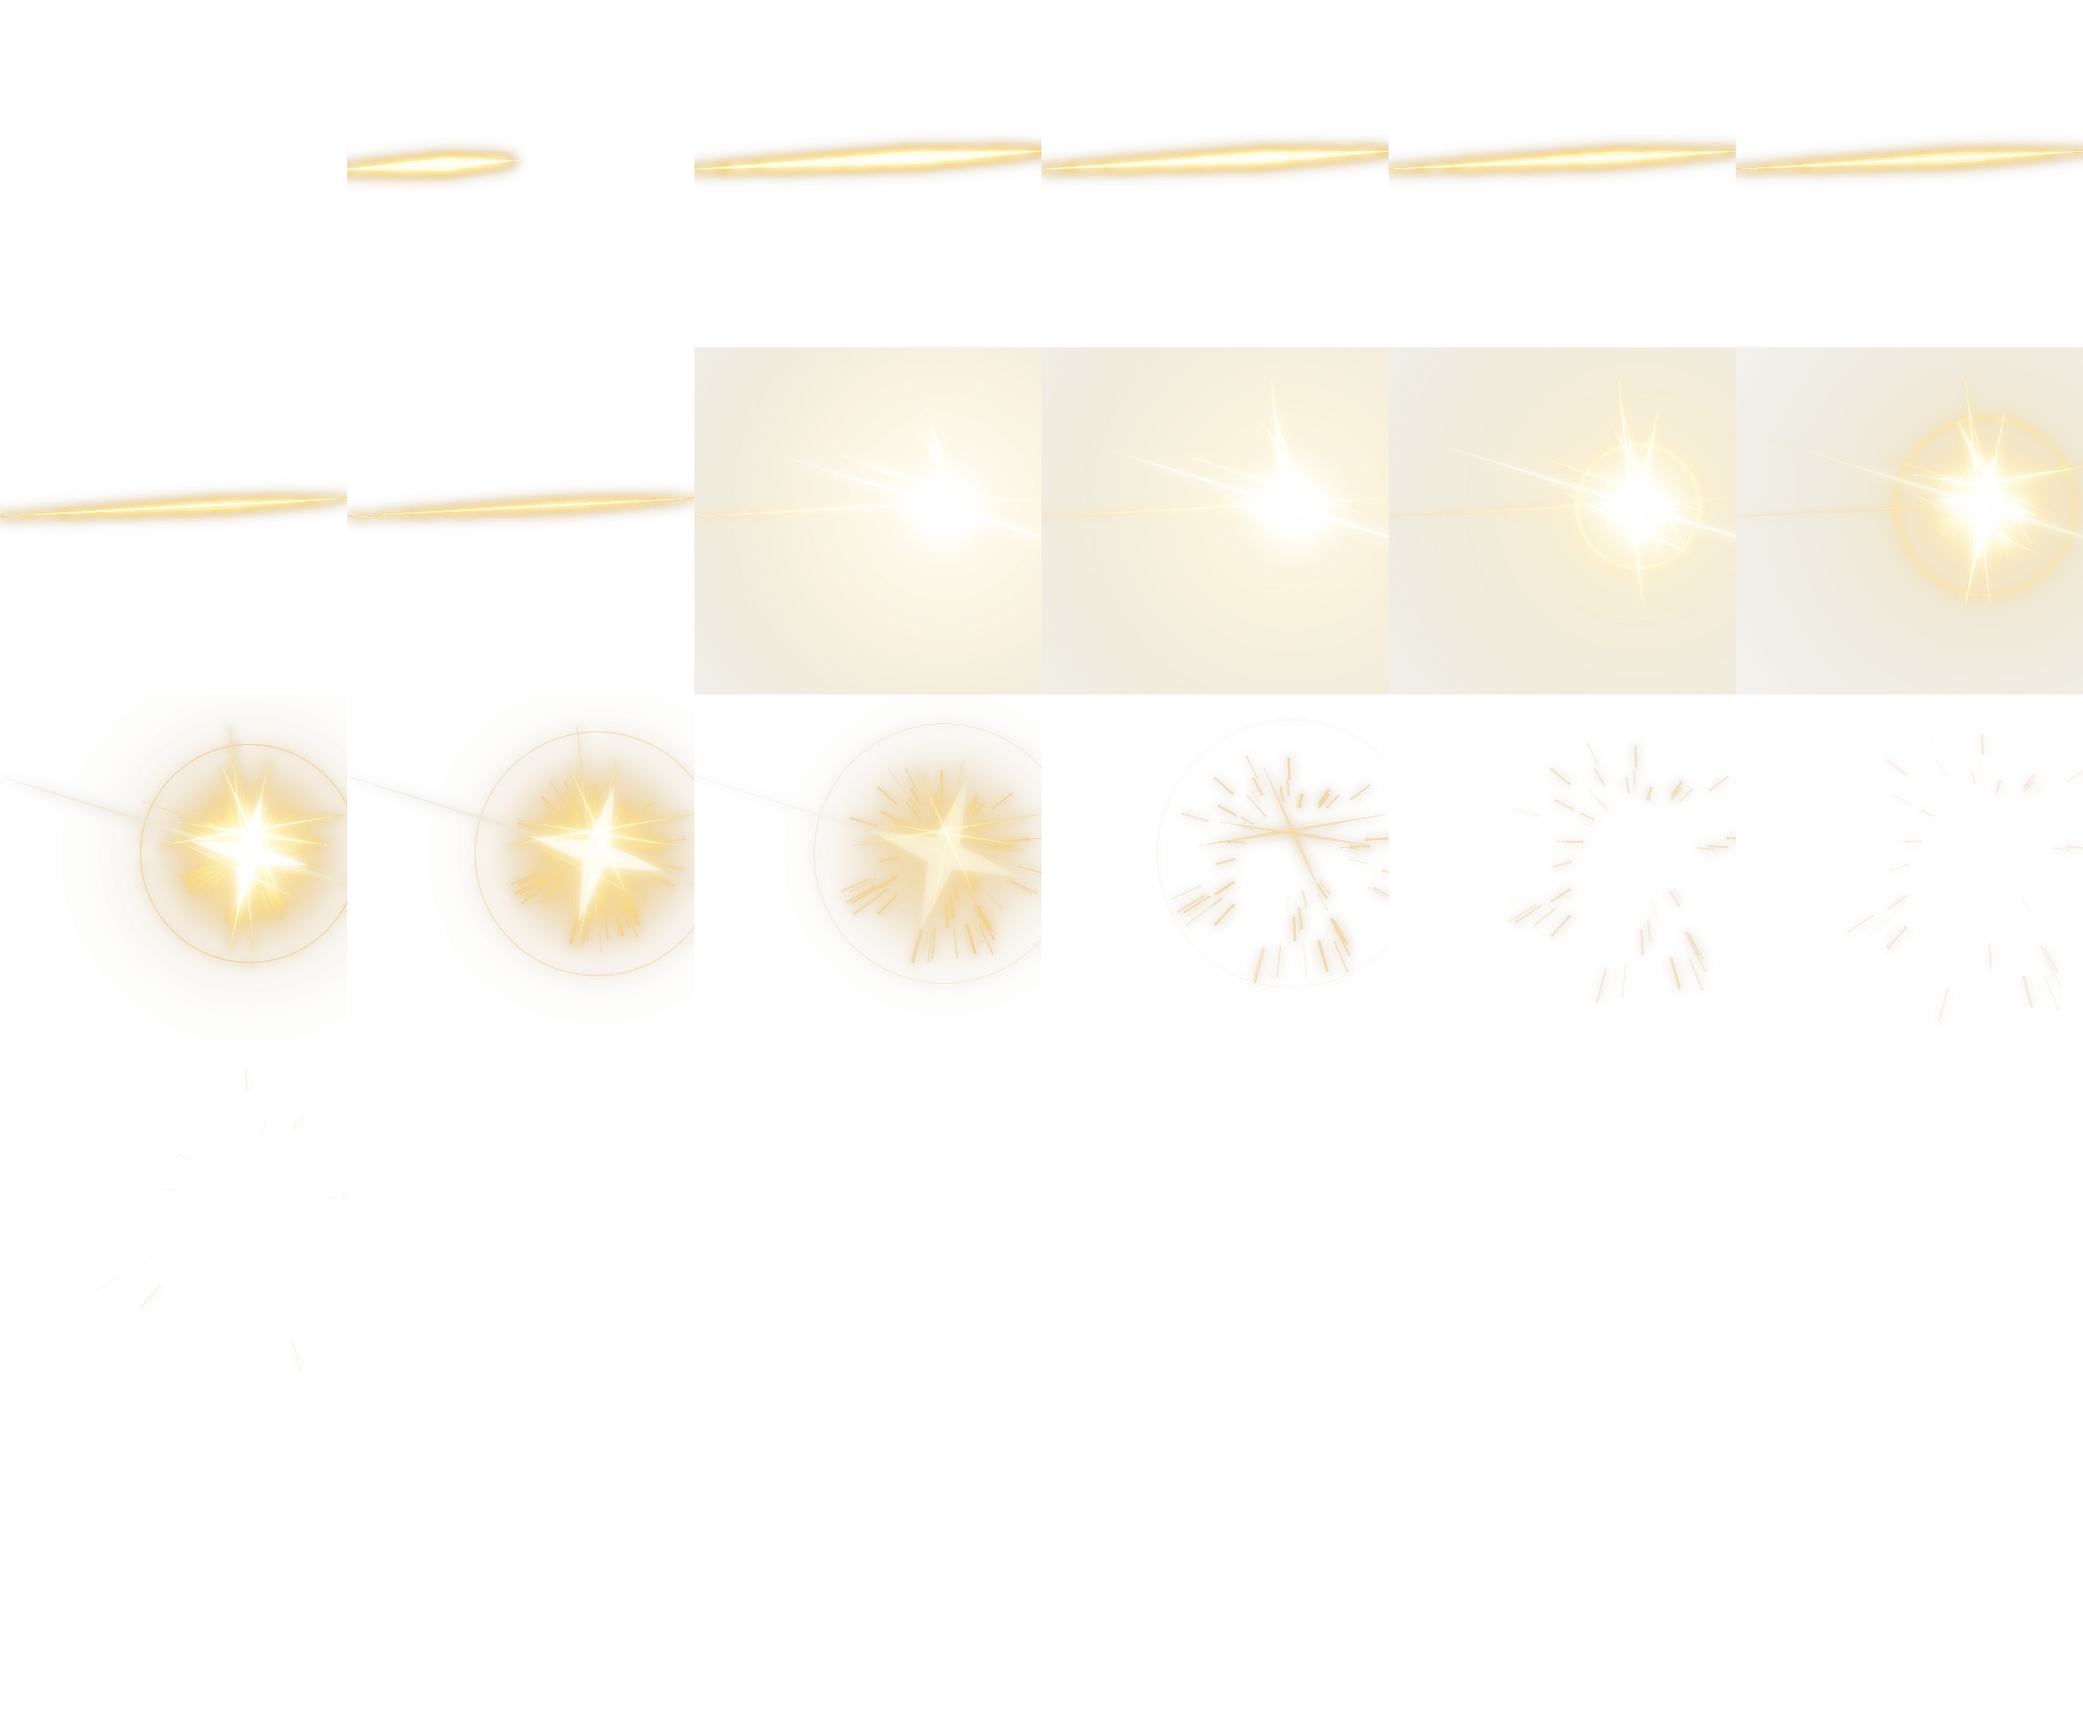
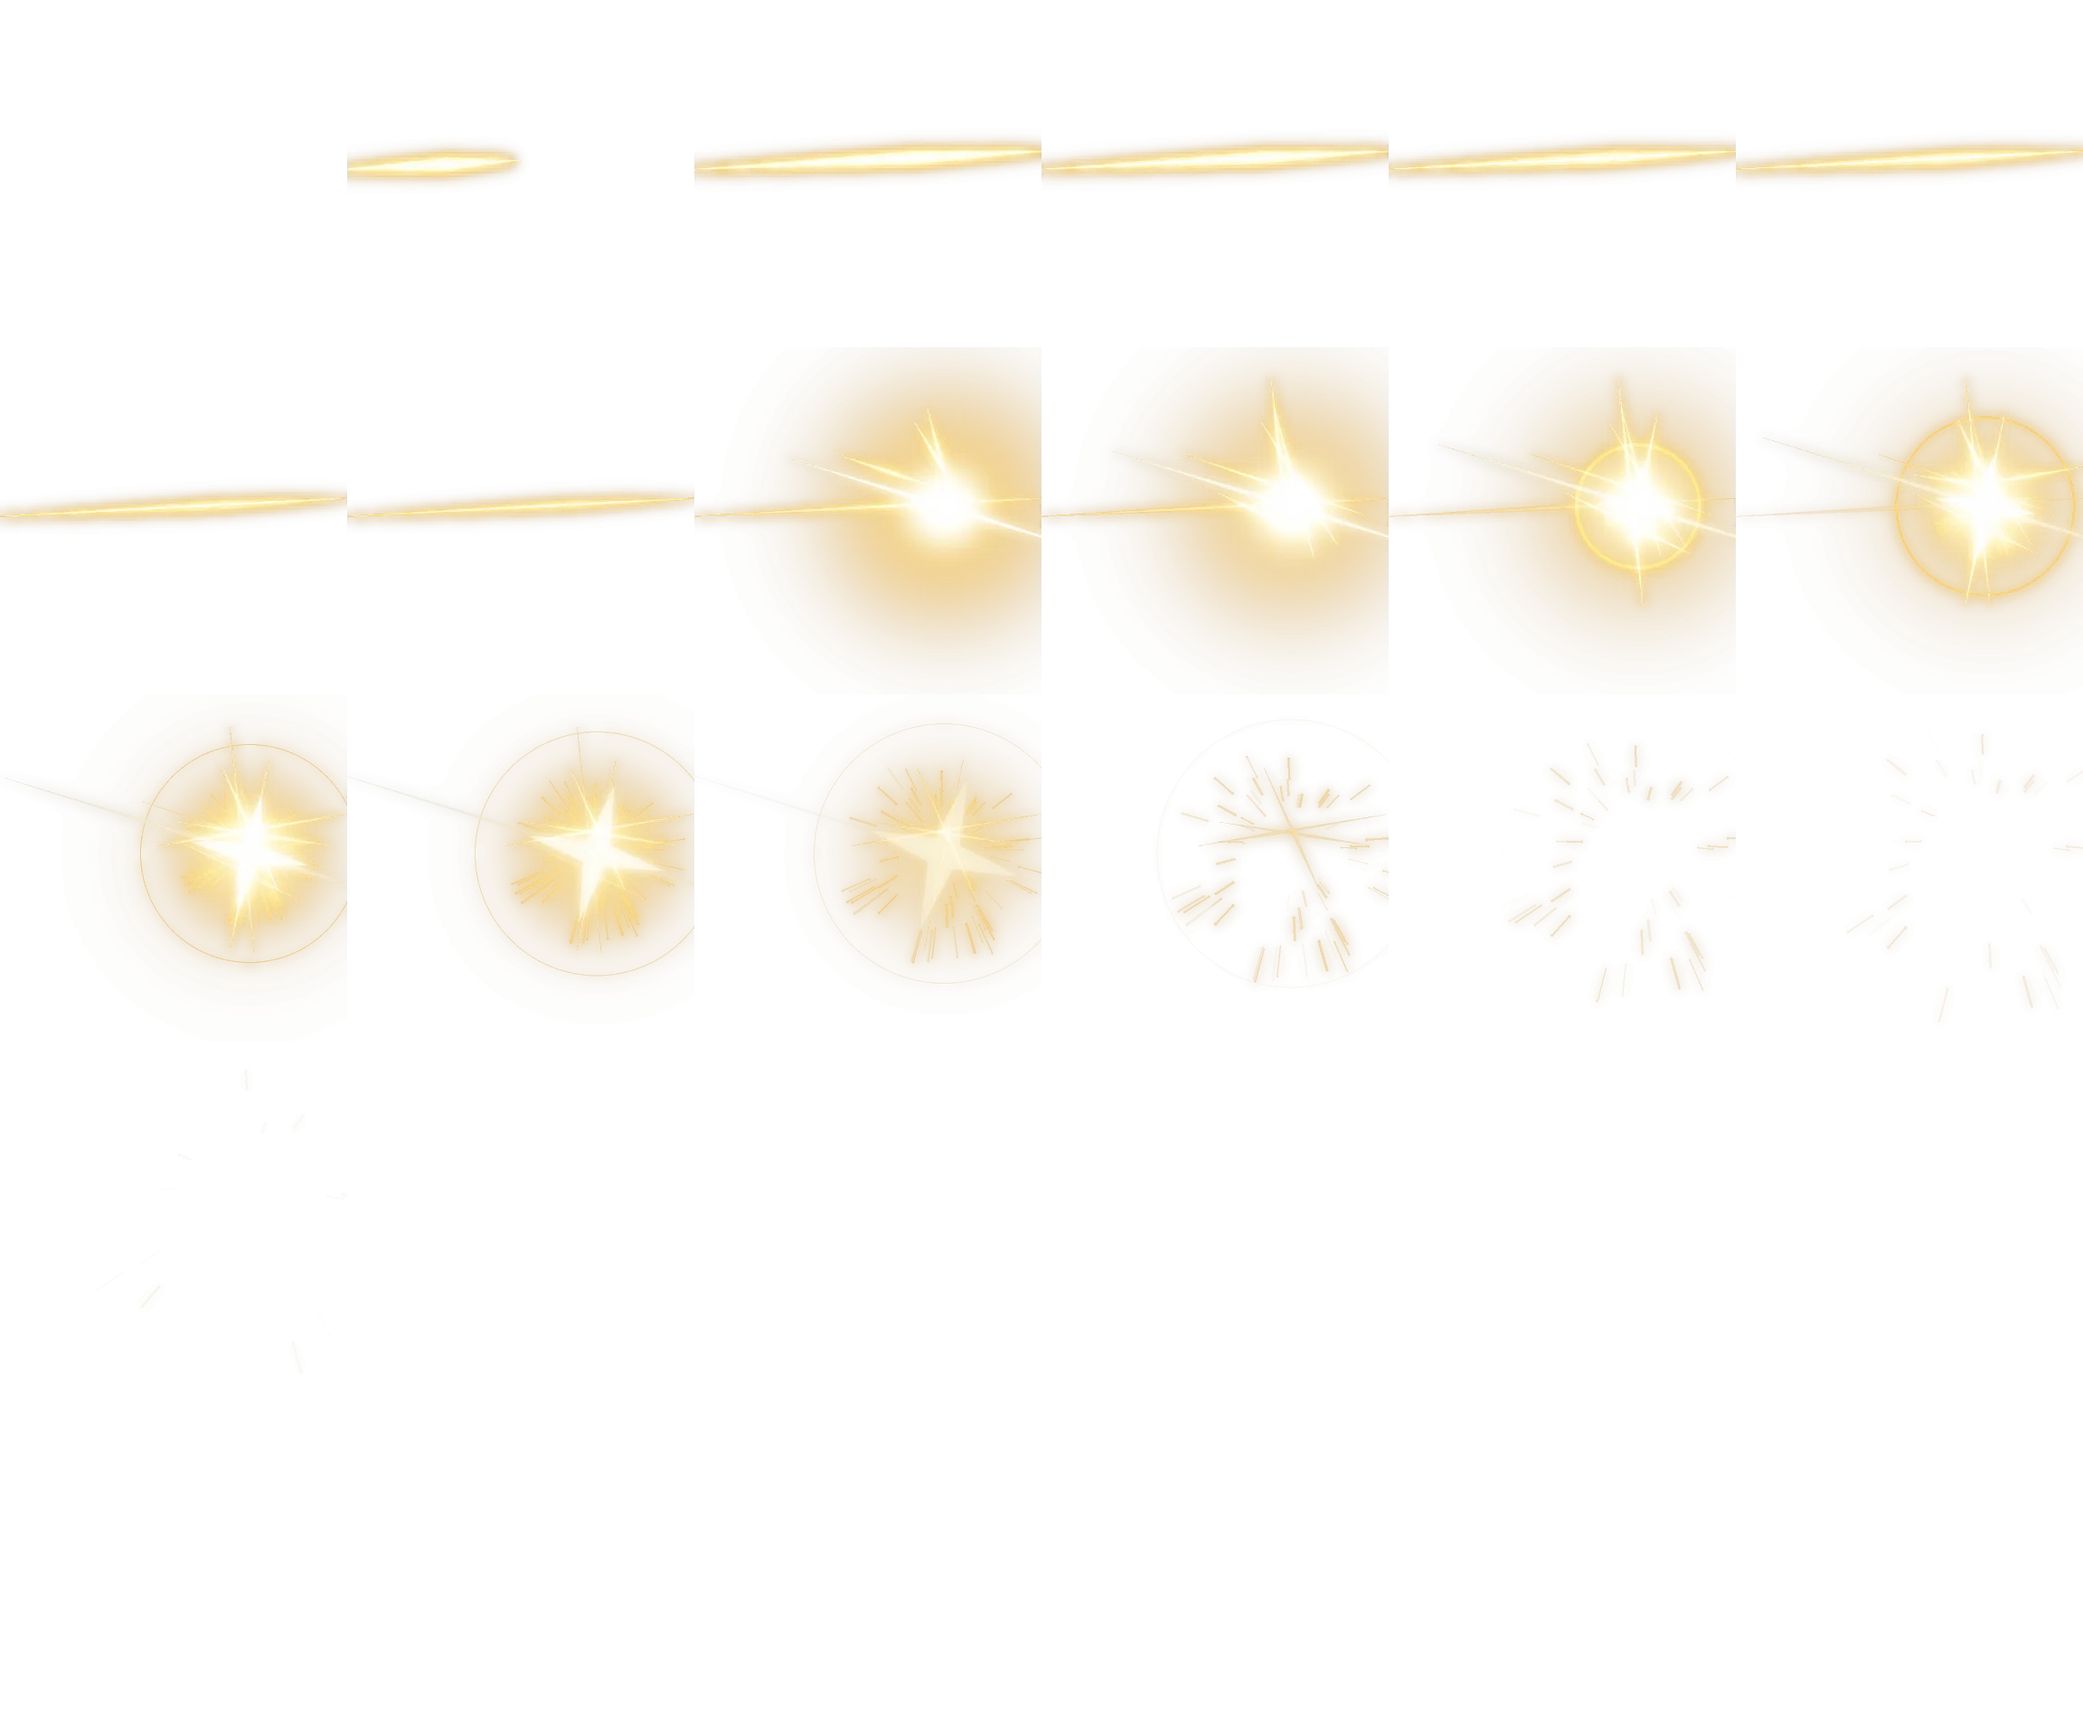
feat(fx): update camellya and rover attack effect sprites and bump FX_VERSION to 3

Changed region(s): [[0.3125, 0.1875, 1.0, 0.4062], [0.9688, 0.1875, 1.0, 0.2188]]

diff --git a/src/components/attackMotions/SpriteEffect.tsx b/src/components/attackMotions/SpriteEffect.tsx
@@ -19,7 +19,7 @@ export type SheetMeta = {
 };
 
 /** 스프라이트를 다시 뽑아 같은 파일명으로 교체할 때마다 올린다 (1년 캐시·서비스 워커 무효화) */
-export const FX_VERSION = '2';
+export const FX_VERSION = '3';
 const BASE = '/effects/attack/';
 /** 스프라이트 프레임 안에서 대상 카드 중심 위치 (생성기 common.py의 IMPACT) */
 export const FX_IMPACT = { x: 276 / 384, y: 176 / 384 };
